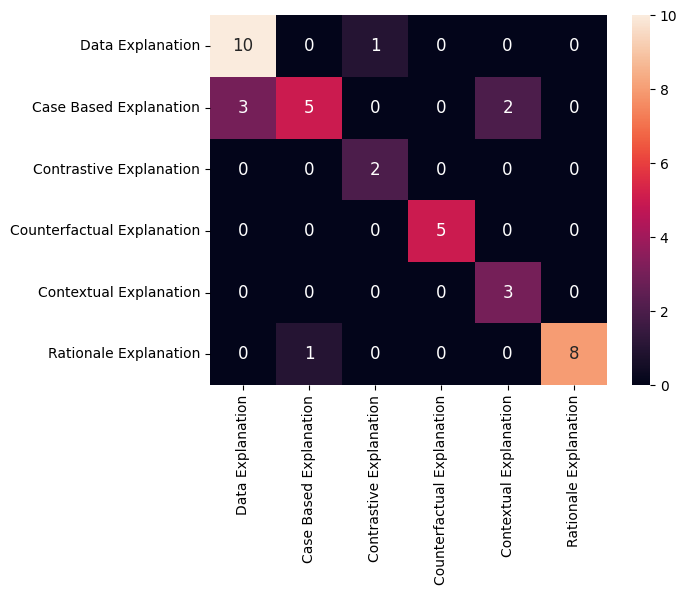
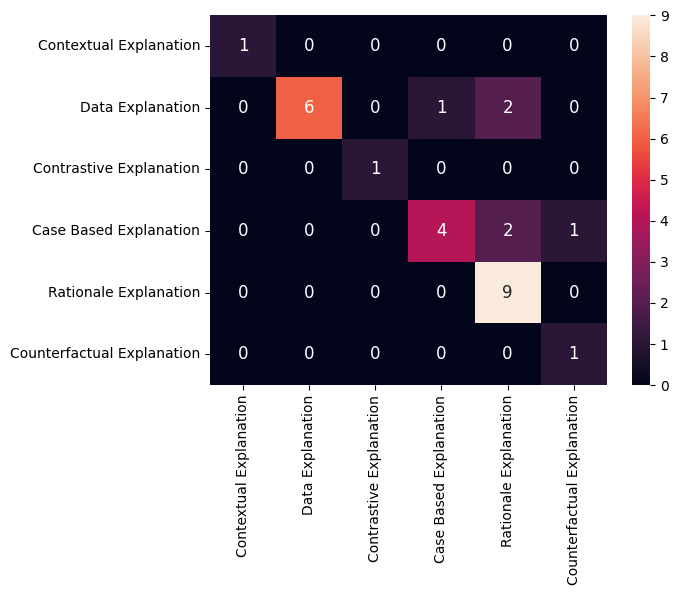
Retraining llama3 on llama2 split and generating results

diff --git a/metaexplainer/metaexplainercode/decompose/fine_tune.py b/metaexplainer/metaexplainercode/decompose/fine_tune.py
@@ -130,8 +130,8 @@ class LLM_ExplanationInterpretor():
 		test_dataset_path = domain_dir_path + '/' + domain_name + '_test_dataset.jsonl' 
 
 		try:
-			train_dataset_path = Path(train_dataset_path).resolve(strict=True)
-			test_dataset_path = Path(test_dataset_path).resolve(strict=True)
+			train_dataset_path_check = Path(train_dataset_path).resolve(strict=True)
+			test_dataset_path_check = Path(test_dataset_path).resolve(strict=True)
 			self.train_dataset = load_dataset('json', data_files= train_dataset_path)
 			self.test_dataset = load_dataset('json', data_files= test_dataset_path)
 			print('Dataset split found and datasets loaded. Train: ', len(self.train_dataset), 'And test: ', len(self.test_dataset))
@@ -166,7 +166,7 @@ class LLM_ExplanationInterpretor():
 			self.base_model_name,
 			quantization_config=quant_config,
 			#device_map="{"": 0}",
-			device_map = "auto"
+			#device_map = "auto"
 		)
 		self.base_model.config.use_cache = True
 		self.base_model.config.pretraining_tp = 1
@@ -203,10 +203,15 @@ class LLM_ExplanationInterpretor():
 			report_to="tensorboard"
 		)
 
+		train_source = self.train_dataset
+
+		if 'train' in self.train_dataset.keys():
+			train_source = self.train_dataset['train']
+
 		# Trainer
 		fine_tuning = SFTTrainer(
 			model=self.base_model,
-			train_dataset = train_dataset,
+			train_dataset = train_source,
 			dataset_text_field="text",
 			#eval_dataset = test_dataset,
 			peft_config=peft_parameters,
@@ -512,12 +517,14 @@ class LLM_ExplanationInterpretor():
 
 		
 		
-		metaexplainer_utils.generate_confusion_matrix_and_visualize(list(results_explanation_types),
-															   list(reference_explanation_types), 
+		metaexplainer_utils.generate_confusion_matrix_and_visualize(list(reference_explanation_types),
+															  list(results_explanation_types), 
 															   unique_explanation_types, 
 															   'llm_results/' + refined_model_name + '_' + domain_name + '_' + mode + '_explanation_type_accuracy.png')
 
-		cm_explanation_types = classification_report(list(results_explanation_types),list(reference_explanation_types), labels=unique_explanation_types)
+		cm_explanation_types = classification_report(list(reference_explanation_types), 
+											   list(results_explanation_types), 
+											   labels=unique_explanation_types)
 		
 		cm_confusion_explanation_str = '---Confusion matrix for explanation types--- \n' + str(cm_explanation_types)
 		print(cm_confusion_explanation_str)
@@ -590,7 +597,7 @@ class LLM_ExplanationInterpretor():
 			self.set_datasets('Diabetes')
 			self.train(self.train_dataset)
 		elif mode == 'test':
-			print('Running inference on test datatset')
+			print('Running inference on, ',infer_mode,' datatset')
 			self.get_datasets('Diabetes')
 			self.set_refined_model()
 
@@ -605,18 +612,18 @@ class LLM_ExplanationInterpretor():
 if __name__== "__main__":
 
 	# # Model and tokenizer names
-	# base_model_name = "meta-llama/Meta-Llama-3-8B-Instruct"
-	# refined_model_name = "llama-3-8b-charis-explanation" #You can give it your own name
+	base_model_name = "meta-llama/Meta-Llama-3-8B-Instruct"
+	refined_model_name = "llama-3-8b-charis-explanation" #You can give it your own name
 
-	#Trying the LLama2
+	#LLama2
 
-	base_model_name = 'NousResearch/Nous-Hermes-Llama2-13b'
-	refined_model_name = "llama-2-13b-charis-explanation" #You can give it your own name
+	# base_model_name = 'NousResearch/Nous-Hermes-Llama2-13b'
+	# refined_model_name = "llama-2-13b-charis-explanation" #You can give it your own name
 
 	#defining variables necessary for instantiation
 	llama_tokenizer = AutoTokenizer.from_pretrained(base_model_name, trust_remote_code=True, use_auth_token=True)
 	llama_tokenizer.pad_token = llama_tokenizer.eos_token
-	llama_tokenizer.padding_side = "right"  # Fix for fp16
+	llama_tokenizer.padding_side = "left"  # Fix for fp16
 
 	print('Tokenizer setup ')
 	
@@ -627,7 +634,7 @@ if __name__== "__main__":
 	#llm_explanation_interpreter.run('train')
 	#llm_explanation_interpreter.run('test', infer_mode='train')
 	#to run inference on test
-	llm_explanation_interpreter.run('test')
+	#llm_explanation_interpreter.run('test')
 
 	#if the compute metrics is called outside of test / train - then call get_datasets
  
@@ -635,5 +642,5 @@ if __name__== "__main__":
 		#maybe the train doesn't have to be domain-specific
 		llm_explanation_interpreter.get_datasets('Diabetes')
 
-	llm_explanation_interpreter.compute_metrics('Diabetes', mode='test')
+	llm_explanation_interpreter.compute_metrics('Diabetes', mode='train')
 
